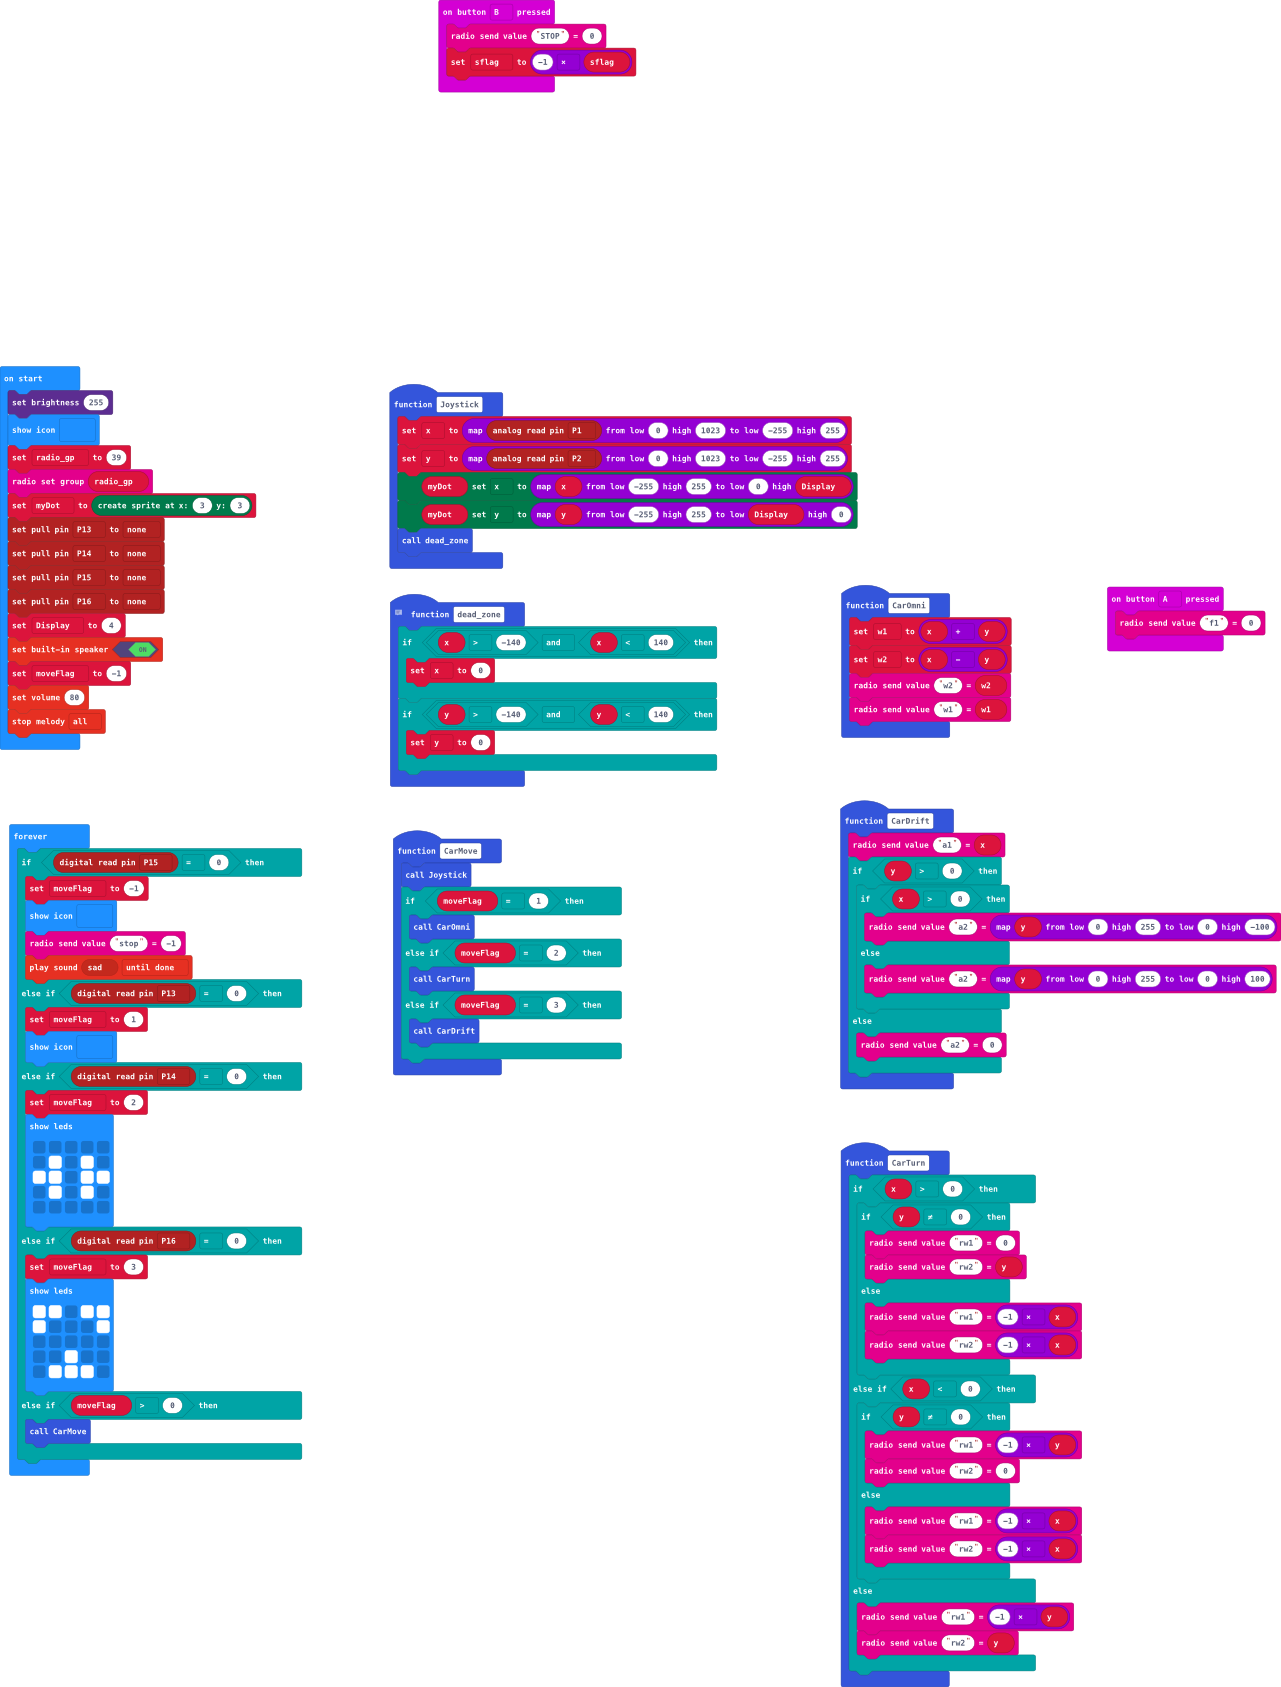
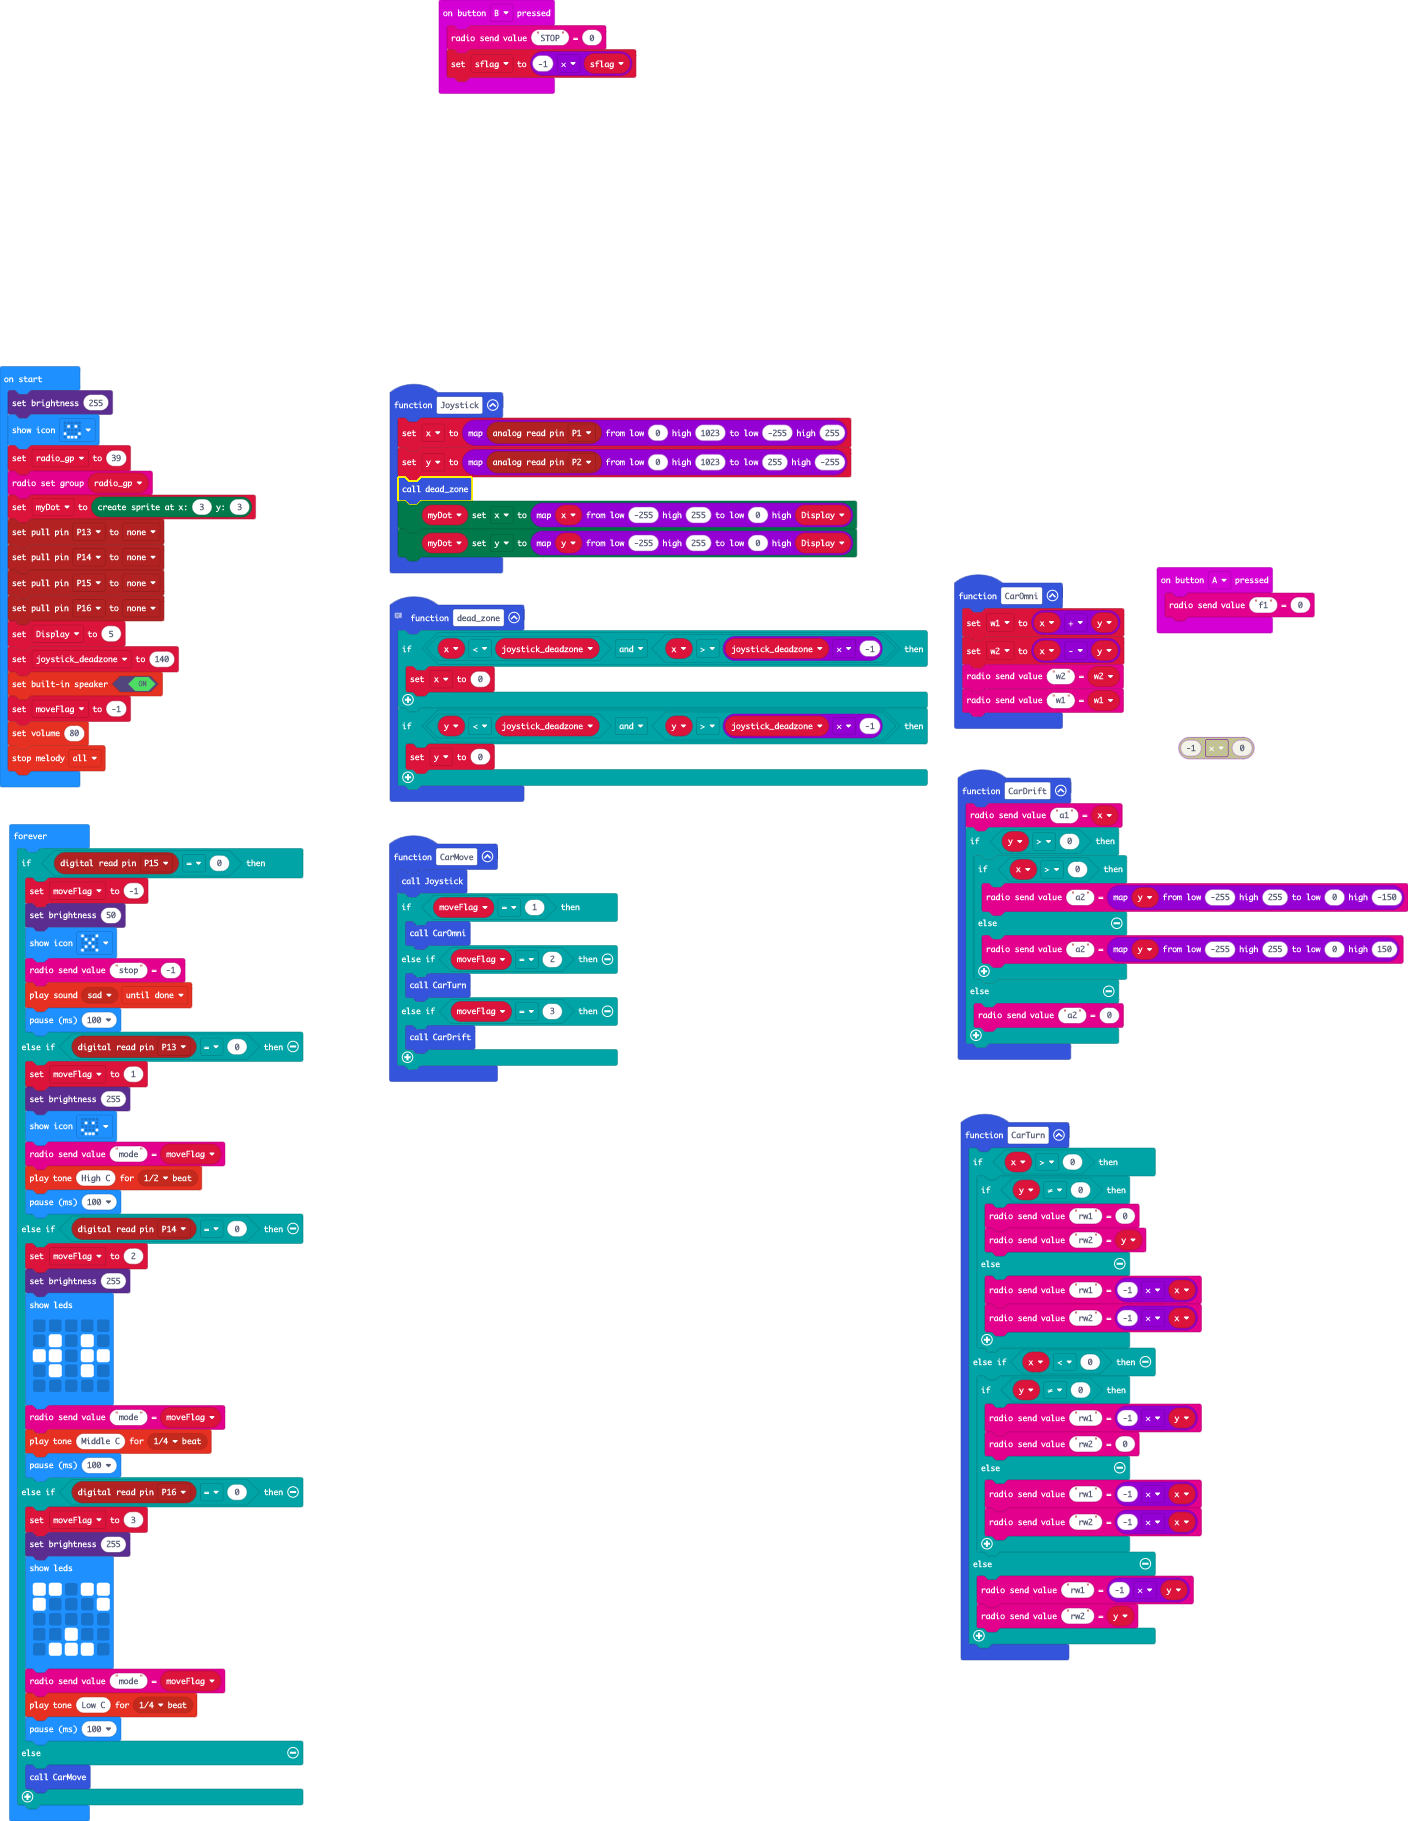
Update main.blocks, main.ts

Changed region(s): [[0.0, 0.1849, 1.0, 1.0], [0.3123, 0.0, 0.4996, 0.0616]]

diff --git a/main.ts b/main.ts
@@ -1,9 +1,9 @@
 // 降低靈敏度
 function dead_zone () {
-    if (x > -140 && x < 140) {
+    if (x < joystick_deadzone && x > joystick_deadzone * -1) {
         x = 0
     }
-    if (y > -140 && y < 140) {
+    if (y < joystick_deadzone && y > joystick_deadzone * -1) {
         y = 0
     }
 }
@@ -18,10 +18,10 @@ input.onButtonPressed(Button.A, function () {
 })
 function Joystick () {
     x = Math.map(pins.analogReadPin(AnalogPin.P1), 0, 1023, -255, 255)
-    y = Math.map(pins.analogReadPin(AnalogPin.P2), 0, 1023, -255, 255)
-    myDot.set(LedSpriteProperty.X, Math.map(x, -255, 255, 0, Display))
-    myDot.set(LedSpriteProperty.Y, Math.map(y, -255, 255, Display, 0))
+    y = Math.map(pins.analogReadPin(AnalogPin.P2), 0, 1023, 255, -255)
     dead_zone()
+    myDot.set(LedSpriteProperty.X, Math.map(x, -255, 255, 0, Display))
+    myDot.set(LedSpriteProperty.Y, Math.map(y, -255, 255, 0, Display))
 }
 input.onButtonPressed(Button.B, function () {
     radio.sendValue("STOP", 0)
@@ -63,9 +63,9 @@ function CarDrift () {
     radio.sendValue("a1", x)
     if (y > 0) {
         if (x > 0) {
-            radio.sendValue("a2", Math.map(y, 0, 255, 0, -100))
+            radio.sendValue("a2", Math.map(y, -255, 255, 0, -150))
         } else {
-            radio.sendValue("a2", Math.map(y, 0, 255, 0, 100))
+            radio.sendValue("a2", Math.map(y, -255, 255, 0, 150))
         }
     } else {
         radio.sendValue("a2", 0)
@@ -77,6 +77,7 @@ let w1 = 0
 let y = 0
 let x = 0
 let moveFlag = 0
+let joystick_deadzone = 0
 let Display = 0
 let myDot: game.LedSprite = null
 led.setBrightness(255)
@@ -88,7 +89,8 @@ pins.setPull(DigitalPin.P13, PinPullMode.PullNone)
 pins.setPull(DigitalPin.P14, PinPullMode.PullNone)
 pins.setPull(DigitalPin.P15, PinPullMode.PullNone)
 pins.setPull(DigitalPin.P16, PinPullMode.PullNone)
-Display = 4
+Display = 5
+joystick_deadzone = 140
 music.setBuiltInSpeakerEnabled(true)
 moveFlag = -1
 music.setVolume(80)
@@ -96,14 +98,21 @@ music.stopMelody(MelodyStopOptions.All)
 basic.forever(function () {
     if (pins.digitalReadPin(DigitalPin.P15) == 0) {
         moveFlag = -1
+        led.setBrightness(50)
         basic.showIcon(IconNames.No)
         radio.sendValue("stop", -1)
         music.playSoundEffect(music.builtinSoundEffect(soundExpression.sad), SoundExpressionPlayMode.UntilDone)
+        basic.pause(100)
     } else if (pins.digitalReadPin(DigitalPin.P13) == 0) {
         moveFlag = 1
+        led.setBrightness(255)
         basic.showIcon(IconNames.Happy)
+        radio.sendValue("mode", moveFlag)
+        music.playTone(523, music.beat(BeatFraction.Half))
+        basic.pause(100)
     } else if (pins.digitalReadPin(DigitalPin.P14) == 0) {
         moveFlag = 2
+        led.setBrightness(255)
         basic.showLeds(`
             . . . . .
             . # . # .
@@ -111,8 +120,12 @@ basic.forever(function () {
             . # . # .
             . . . . .
             `)
+        radio.sendValue("mode", moveFlag)
+        music.playTone(262, music.beat(BeatFraction.Quarter))
+        basic.pause(100)
     } else if (pins.digitalReadPin(DigitalPin.P16) == 0) {
         moveFlag = 3
+        led.setBrightness(255)
         basic.showLeds(`
             # # . # #
             # . . . #
@@ -120,7 +133,10 @@ basic.forever(function () {
             . . # . .
             . # # # .
             `)
-    } else if (moveFlag > 0) {
+        radio.sendValue("mode", moveFlag)
+        music.playTone(131, music.beat(BeatFraction.Quarter))
+        basic.pause(100)
+    } else {
         CarMove()
     }
 })
